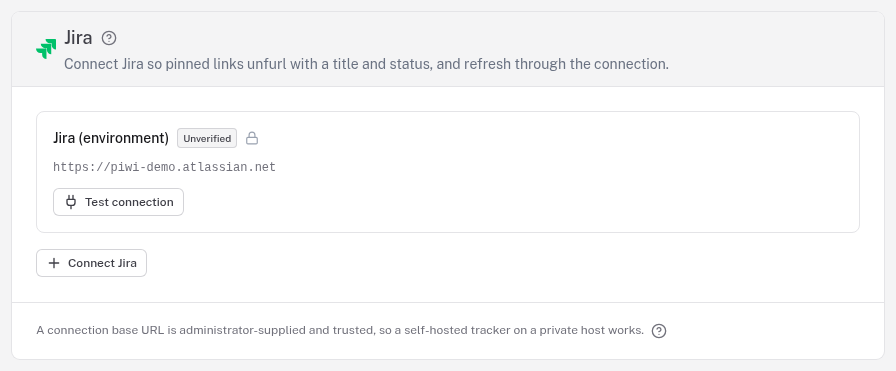
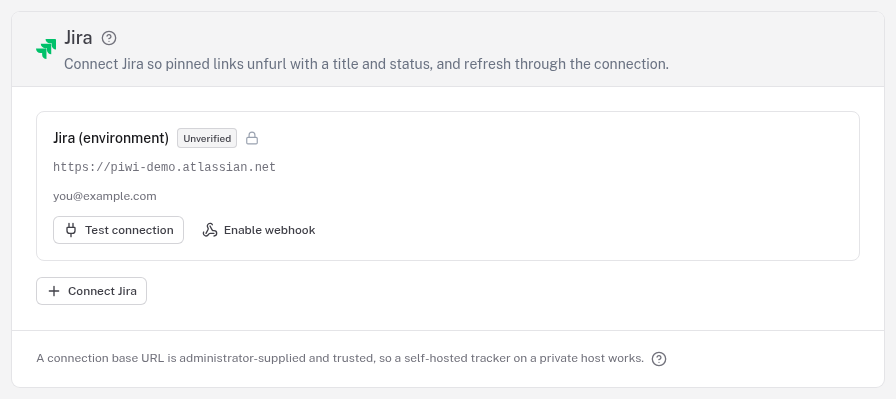
fix(app): show the Jira account email and keep it across edits
The account email was stored inside the encrypted credentials blob, which
is never returned to the UI, so the settings edit form always showed the
email field blank and it looked like the email was not stored. Worse, an
update replaced the whole blob with whatever the form submitted, so
rotating only the API token (or correcting only the email) silently
dropped the sibling field and broke the connection.

Return the non-secret credential values (the account email) in the
connection summary, show them on the card and pre-fill the edit form, and
merge submitted credential fields onto the stored ones on update so
changing one field never drops another. Secret fields such as the API
token are still never returned.

Fixes https://github.com/PiwiTests/platform/issues/590

Claude-Session: https://claude.ai/code/session_015htTr7or9ouDEMo5AQPyds

diff --git a/apps/application/server/utils/integrations/connections.ts b/apps/application/server/utils/integrations/connections.ts
@@ -2,6 +2,7 @@ import { and, eq } from 'drizzle-orm';
 import {
   INTEGRATION_PROVIDERS,
   isIntegrationProvider,
+  nonSecretCredentials,
   type IntegrationProviderName,
 } from '#shared/integrations/registry';
 import type {
@@ -97,19 +98,29 @@ function hasStoredCredentials(row: IntegrationConnection): boolean {
   return !!row.credentials;
 }
 
-/** Resolve the tracker credentials for a connection, decrypting DB-stored ones. */
-function resolveTrackerCredentials(row: IntegrationConnection): TrackerCredentials | null {
+/** The connection's decrypted credential map, or null when absent or corrupt. */
+function decryptCredentials(row: IntegrationConnection): Record<string, string> | null {
+  if (!row.credentials) return null;
+  try {
+    return JSON.parse(decryptSecret(row.credentials, getEncryptionKey())) as Record<string, string>;
+  } catch {
+    return null; // corrupt credential blob
+  }
+}
+
+/** The full credential map for a connection — from the environment or the stored blob. */
+function credentialMap(row: IntegrationConnection): Record<string, string> | null {
   if (row.managedBy === 'env') {
     const env = envJiraCredentials();
     return env ? { email: env.email, apiToken: env.apiToken } : null;
   }
-  if (!row.credentials) return null;
-  try {
-    const parsed = JSON.parse(decryptSecret(row.credentials, getEncryptionKey())) as Partial<TrackerCredentials>;
-    if (parsed.email && parsed.apiToken) return { email: parsed.email, apiToken: parsed.apiToken };
-  } catch {
-    /* corrupt credential blob */
-  }
+  return decryptCredentials(row);
+}
+
+/** Resolve the tracker credentials for a connection, decrypting DB-stored ones. */
+function resolveTrackerCredentials(row: IntegrationConnection): TrackerCredentials | null {
+  const parsed = credentialMap(row);
+  if (parsed?.email && parsed.apiToken) return { email: parsed.email, apiToken: parsed.apiToken };
   return null;
 }
 
@@ -140,6 +151,7 @@ function toSummary(row: IntegrationConnection): ConnectionSummary {
     lastError: row.lastError ?? null,
     managedBy: row.managedBy as ConnectionSummary['managedBy'],
     hasCredentials: hasStoredCredentials(row),
+    credentialValues: nonSecretCredentials(row.provider as IntegrationProviderName, credentialMap(row)),
     hasWebhookToken: webhookTokenFor(row) != null,
     createdAt: row.createdAt ? new Date(row.createdAt).toISOString() : null,
     updatedAt: row.updatedAt ? new Date(row.updatedAt).toISOString() : null,
@@ -162,12 +174,17 @@ export async function getConnection(db: DbClient, id: number): Promise<Connectio
   return row ? toSummary(row) : null;
 }
 
-/** Encrypt a credential map, or null when it is empty. */
+/** The credential entries with a non-empty value; an empty or omitted map yields `{}`. */
+function nonEmptyValues(credentials: Record<string, string> | null | undefined): Record<string, string> {
+  if (!credentials) return {};
+  return Object.fromEntries(Object.entries(credentials).filter(([, v]) => v != null && v !== ''));
+}
+
+/** Encrypt a credential map, or null when it holds no non-empty value. */
 function encryptCredentials(credentials: Record<string, string> | null | undefined): string | null {
-  if (!credentials) return null;
-  const entries = Object.entries(credentials).filter(([, v]) => v != null && v !== '');
-  if (entries.length === 0) return null;
-  return encryptSecret(JSON.stringify(Object.fromEntries(entries)), getEncryptionKey());
+  const entries = nonEmptyValues(credentials);
+  if (Object.keys(entries).length === 0) return null;
+  return encryptSecret(JSON.stringify(entries), getEncryptionKey());
 }
 
 export async function createConnection(db: DbClient, input: ConnectionInput): Promise<ConnectionSummary> {
@@ -199,10 +216,15 @@ export async function updateConnection(
   if (input.name !== undefined) updates.name = input.name;
   if (input.baseUrl !== undefined) updates.baseUrl = input.baseUrl;
   if (input.config !== undefined) updates.config = input.config;
-  // An empty credential map keeps the stored credential.
-  const encrypted = encryptCredentials(input.credentials);
-  if (encrypted !== null) {
-    updates.credentials = encrypted;
+
+  // Merge the submitted credential fields onto the stored ones. A blank field is
+  // ignored, so changing one field — rotating the API token, or correcting the
+  // account email — never drops the others. An empty map keeps the stored blob.
+  const incoming = nonEmptyValues(input.credentials);
+  const stored = decryptCredentials(row) ?? {};
+  const changed = Object.keys(incoming).some((key) => stored[key] !== incoming[key]);
+  if (changed) {
+    updates.credentials = encryptCredentials({ ...stored, ...incoming });
     updates.status = 'unverified';
   }
 

diff --git a/apps/application/tests/unit/integrations.test.ts b/apps/application/tests/unit/integrations.test.ts
@@ -1,4 +1,5 @@
 import { describe, test, expect, beforeEach, afterEach, vi } from 'vitest';
+import { eq } from 'drizzle-orm';
 import { fileURLToPath } from 'node:url';
 import { mkdtempSync, rmSync } from 'node:fs';
 import { tmpdir } from 'node:os';
@@ -15,6 +16,7 @@ process.env.PIWI_SECRET_KEY = 'unit-test-secret-key-not-for-production';
 const { JiraClient } = await import('../../server/utils/integrations/jira/client');
 const {
   createConnection,
+  updateConnection,
   listConnections,
   getConnectionRow,
   createTracker,
@@ -172,6 +174,78 @@ describe('connections and link resolution', () => {
     expect(tracker!.provider).toBe('jira');
   });
 
+  test('the summary exposes the non-secret account email but never the API token', async () => {
+    const created = await createConnection(dbc, {
+      provider: 'jira',
+      name: 'Team Jira',
+      baseUrl: 'https://team.atlassian.net',
+      credentials: { email: 'me@team.io', apiToken: 'secret-token' },
+    });
+    expect(created.credentialValues).toEqual({ email: 'me@team.io' });
+    expect(JSON.stringify(created)).not.toContain('secret-token');
+
+    const [listed] = await listConnections(dbc);
+    expect(listed!.credentialValues.email).toBe('me@team.io');
+    expect(JSON.stringify(listed)).not.toContain('secret-token');
+  });
+
+  test('rotating only the API token keeps the stored account email', async () => {
+    const created = await createConnection(dbc, {
+      provider: 'jira',
+      name: 'Team Jira',
+      baseUrl: 'https://team.atlassian.net',
+      credentials: { email: 'me@team.io', apiToken: 'secret-token' },
+    });
+
+    // The edit form resubmits only the token; the email field is left blank.
+    const updated = await updateConnection(dbc, created.id, { credentials: { apiToken: 'rotated-token' } });
+    expect(updated?.credentialValues.email).toBe('me@team.io');
+    expect(updated?.status).toBe('unverified');
+
+    // Both fields survived, so the connection still resolves a tracker.
+    const tracker = await createTracker(dbc, created.id);
+    expect(tracker).not.toBeNull();
+  });
+
+  test('correcting only the account email keeps the stored API token', async () => {
+    const created = await createConnection(dbc, {
+      provider: 'jira',
+      name: 'Team Jira',
+      baseUrl: 'https://team.atlassian.net',
+      credentials: { email: 'typo@team.io', apiToken: 'secret-token' },
+    });
+
+    const updated = await updateConnection(dbc, created.id, { credentials: { email: 'correct@team.io' } });
+    expect(updated?.credentialValues.email).toBe('correct@team.io');
+
+    // The token was not resubmitted but still resolves a tracker (needs both fields).
+    const tracker = await createTracker(dbc, created.id);
+    expect(tracker).not.toBeNull();
+  });
+
+  test('resubmitting the same account email keeps a verified connection verified', async () => {
+    const created = await createConnection(dbc, {
+      provider: 'jira',
+      name: 'Team Jira',
+      baseUrl: 'https://team.atlassian.net',
+      credentials: { email: 'me@team.io', apiToken: 'secret-token' },
+    });
+    // Mark it verified as a successful `test connection` would.
+    await db
+      .update(schema.integrationConnections)
+      .set({ status: 'ok' })
+      .where(eq(schema.integrationConnections.id, created.id));
+
+    // Rename the connection while echoing back the pre-filled, unchanged email.
+    const updated = await updateConnection(dbc, created.id, {
+      name: 'Renamed',
+      credentials: { email: 'me@team.io' },
+    });
+    expect(updated?.name).toBe('Renamed');
+    expect(updated?.status).toBe('ok'); // an unchanged credential must not re-flag as unverified
+    expect(updated?.credentialValues.email).toBe('me@team.io');
+  });
+
   test('env vars create a read-only env-managed connection, removed when unset', async () => {
     process.env.PIWI_JIRA_BASE_URL = 'https://env.atlassian.net';
     process.env.PIWI_JIRA_EMAIL = 'env@acme.io';
@@ -182,6 +256,9 @@ describe('connections and link resolution', () => {
     expect(list[0]!.managedBy).toBe('env');
     expect(list[0]!.hasCredentials).toBe(true);
     expect(list[0]!.baseUrl).toBe('https://env.atlassian.net');
+    // The account email comes from the environment and is shown, never the token.
+    expect(list[0]!.credentialValues.email).toBe('env@acme.io');
+    expect(JSON.stringify(list[0])).not.toContain('env-token');
 
     // The env-managed connection resolves a tracker from the environment.
     const tracker = await createTracker(dbc, list[0]!.id);

diff --git a/apps/application/app/demo/api/integrations.ts b/apps/application/app/demo/api/integrations.ts
@@ -6,6 +6,7 @@ import type {
   ExistingIssueCandidate,
   IssueDraft,
 } from '#shared/integrations/types';
+import { nonSecretCredentials } from '#shared/integrations/registry';
 import { renderMarkdown } from '#shared/integrations/render-markdown';
 import { DEFAULT_LOCALE, type IssueLocale } from '#shared/integrations/messages';
 import { resolveProjectIntegration, type ResolvedProjectIntegration } from '#shared/integrations/binding';
@@ -30,6 +31,7 @@ const DEMO_CONNECTION: ConnectionSummary = {
   lastError: null,
   managedBy: 'db',
   hasCredentials: true,
+  credentialValues: { email: 'demo@example.com' },
   hasWebhookToken: false,
   createdAt: DEMO_TIME,
   updatedAt: DEMO_TIME,
@@ -54,6 +56,7 @@ export function createDemoConnection(body: ConnectionInput): { connection: Conne
       config: body.config ?? { flavor: 'cloud' },
       status: 'unverified',
       hasCredentials: !!body.credentials && Object.keys(body.credentials).length > 0,
+      credentialValues: nonSecretCredentials(body.provider, body.credentials),
     },
   };
 }
@@ -65,6 +68,8 @@ export function updateDemoConnection(id: number, body: Partial<ConnectionInput>)
       id,
       name: body.name ?? DEMO_CONNECTION.name,
       baseUrl: body.baseUrl ?? DEMO_CONNECTION.baseUrl,
+      // Mirror the server's merge: submitted non-secret fields override the stored ones.
+      credentialValues: { ...DEMO_CONNECTION.credentialValues, ...nonSecretCredentials('jira', body.credentials) },
     },
   };
 }

diff --git a/apps/application/shared/integrations/types.ts b/apps/application/shared/integrations/types.ts
@@ -1,7 +1,8 @@
 /**
- * Wire shapes the integration UI reads. Credentials never appear here — a
- * connection summary carries only a `hasCredentials` flag, and the test result
- * carries the resolved account, not the token that resolved it.
+ * Wire shapes the integration UI reads. Secret credentials never appear here — a
+ * connection summary carries a `hasCredentials` flag and its non-secret credential
+ * values (the account email), and the test result carries the resolved account,
+ * not the token that resolved it.
  */
 import type { IntegrationProviderName } from './registry';
 import type { IssueDocument } from './document';
@@ -24,6 +25,12 @@ export interface ConnectionSummary {
   managedBy: ConnectionManagedBy;
   /** True when the connection has stored credentials, without revealing them. */
   hasCredentials: boolean;
+  /**
+   * The non-secret credential values (e.g. the account email), so the settings UI
+   * can show the account and pre-fill the edit form. Secret fields such as the API
+   * token are never included.
+   */
+  credentialValues: Record<string, string>;
   /** True when an inbound-webhook token is set (the token itself is never returned). */
   hasWebhookToken: boolean;
   createdAt: string | null;

diff --git a/apps/application/shared/integrations/registry.ts b/apps/application/shared/integrations/registry.ts
@@ -73,3 +73,25 @@ export const INTEGRATION_PROVIDER_LIST = Object.entries(INTEGRATION_PROVIDERS).m
 export function isIntegrationProvider(value: string): value is IntegrationProviderName {
   return Object.prototype.hasOwnProperty.call(INTEGRATION_PROVIDERS, value);
 }
+
+/**
+ * The subset of a credential map that is safe to reveal: the provider's declared
+ * non-secret fields with a non-empty value (e.g. the Jira account email). Secret
+ * fields such as the API token are always dropped, and undeclared keys are ignored.
+ * Both the server (after decrypting the stored blob) and the demo use this, so the
+ * settings UI can show the account and pre-fill the edit form without leaking a secret.
+ */
+export function nonSecretCredentials(
+  provider: IntegrationProviderName,
+  credentials: Record<string, string> | null | undefined,
+): Record<string, string> {
+  if (!credentials) return {};
+  const out: Record<string, string> = {};
+  const fields = INTEGRATION_PROVIDERS[provider].credentialFields as readonly CredentialField[];
+  for (const field of fields) {
+    if (field.secret) continue;
+    const value = credentials[field.key];
+    if (typeof value === 'string' && value !== '') out[field.key] = value;
+  }
+  return out;
+}

diff --git a/apps/application/app/pages/settings/integrations.vue b/apps/application/app/pages/settings/integrations.vue
@@ -84,7 +84,9 @@ function openEdit(conn: ConnectionSummary) {
   form.editingId = conn.id;
   form.name = conn.name;
   form.baseUrl = conn.baseUrl;
-  form.credentials = {};
+  // Pre-fill the non-secret fields (the account email) so they show and survive
+  // an edit; secret fields stay blank and keep their stored value.
+  form.credentials = { ...conn.credentialValues };
   form.config = { ...((conn.config as Record<string, unknown> | null) ?? {}) };
   form.locale = (conn.config as { locale?: string } | null)?.locale === 'fr' ? 'fr' : 'en';
 }
@@ -219,6 +221,9 @@ function errorMessage(err: unknown): string {
               <EnvManagedBadge v-if="conn.managedBy === 'env'" :env-vars="ENV_VARS_BY_PROVIDER[provider.name]" />
             </div>
             <p class="text-xs text-muted font-mono break-all">{{ conn.baseUrl }}</p>
+            <p v-if="conn.credentialValues.email" class="text-xs text-muted break-all">
+              {{ conn.credentialValues.email }}
+            </p>
 
             <ErrorText v-if="conn.status === 'failed' && conn.lastError" :text="conn.lastError" />
             <p v-if="testResults[conn.id]?.ok" class="text-xs text-muted">
